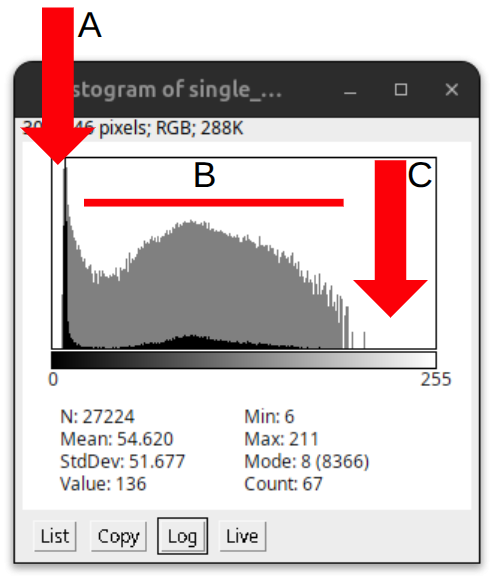
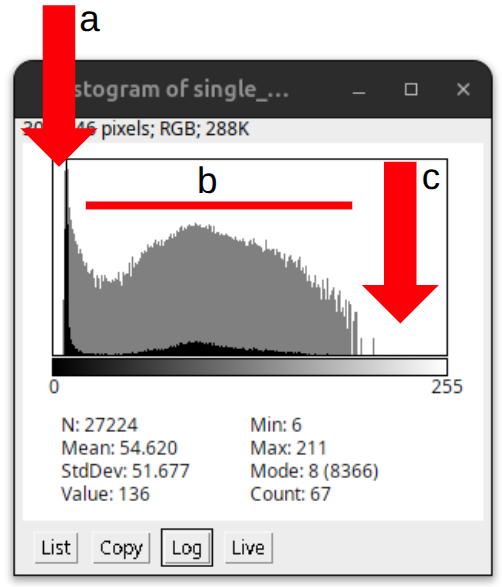
Revised image histogram section

diff --git a/checklists/fiji_course/image_histogram.md b/checklists/fiji_course/image_histogram.md
@@ -46,7 +46,7 @@ Finally, the light intensity that the microscope captures is represented as diff
 :name: sampling
 :width: 100%
 
-Illustration demonstrating digital sampling in space and intensity. (A) Illustration of a real object, e.g., a cell, with a smooth, continuous outline and continuous intensity within. (B) A modern microscope samples this signal (yellow grid lines) and transforms (quantizes) it into a digital representation, thus quantizing the continuous analog information into discrete pixels and gray values. (C) The sampled cell as a digital image; note the clear loss of information due to this digital sampling.
+Illustration demonstrating digital sampling in space and intensity. (a) Illustration of a real object, e.g., a cell, with a smooth, continuous outline and continuous intensity within. (b) A modern microscope samples this signal (yellow grid lines) and transforms (quantizes) it into a digital representation, thus quantizing the continuous analog information into discrete pixels and gray values. (c) The sampled cell as a digital image; note the clear loss of information due to this digital sampling.
 ```
 
 ```{admonition} Think about it
@@ -68,7 +68,7 @@ Why should you care about that? See below how different numbers of gray values i
 :name: bit_depth
 :width: 100%
 
-Visualization of different intensity sampling on a Fiji sample image. (A) Two gray levels are available. (B) Four gray levels. (C) Sixteen gray levels. (D) 256 gray levels.
+Visualization of different intensity sampling on a Fiji sample image. (a) Two gray values are available. (b) Four gray values. (c) Sixteen gray values. (d) 256 gray values.
 ```
 
 ```{admonition} Think about it
@@ -76,11 +76,11 @@ Visualization of different intensity sampling on a Fiji sample image. (A) Two gr
 
 The 1-bit image looks bad, and the face is very hard to recognize. The 2-bit image is better, and the 4-bit image is already quite good, but there are still clear stepping artifacts. The 8-bit image and the gradient below appear continuous.
 
-Would 8-bit therefore be sufficient in terms of gray levels for all applications? Can you think of cases when this would be sufficient, and when it would be a problem?
+Would 8-bit therefore be sufficient in terms of gray values for all applications? Can you think of cases when this would be sufficient, and when it would be a problem?
 
 ```
 
-The conversion of the continuous signal into gray levels via intensity sampling can also be performed incorrectly, or the images can be processed incorrectly afterward, negatively impacting analysis and image visualization. For instance:
+The conversion of the continuous signal into gray values via intensity sampling can also be performed incorrectly, or the images can be processed incorrectly afterward, negatively impacting analysis and image visualization. For instance:
 
 - The image can be oversaturated, clipping high intensities.
 - The offset can be set incorrectly, cutting off minimum intensities.
@@ -95,19 +95,19 @@ We can check these artifacts using the image itself, but often they are not easi
 :name: sampling_errors
 :width: 100%
 
-Images demonstrating different intensity sampling problems. (A) The starting image, an F-actin cytoskeleton stain channel of a cell cluster. (B–E) Different intensity sampling problems introduced into the same image. 
+Images demonstrating different intensity sampling problems. (a) The starting image, an F-actin cytoskeleton stain channel of a cell cluster. (b-e) Different intensity sampling problems introduced into the same image. 
 ```
 
 ```{admonition} Exercise
 :class: tip
-Can you identify the intensity sampling problems in each of B–E? You can find the solution at the end of the tutorial, or work through the exercise yourself using histograms.
+Can you identify the intensity sampling problems in each of b-e? You can find the solution at the end of the tutorial, or work through the exercise yourself using histograms.
 ```
 
-## Image Histogram
+## Creating an Image Histogram
 
 We can use tools such as image histograms to easily spot intensity sampling problems. 
 
-Download the first test image here [a_image.png](./image_histogram_resources/a_image.png) (right-click and select "Save Link As...") .
+Download the first test image here [a_image.png](./image_histogram_resources/a_image.png) (right-click and select "Save Link As...").
 
 Open Fiji.
 
@@ -126,29 +126,31 @@ You can then create the image histogram of this image here:
 
 Analyze > Histogram (Ctrl + H; Mac: ⌘ + H)
 
-The image histogram shows the intensity distributions over all pixels (black plots), with the x-axis plotting the gray values and the y-axis plotting the number of pixels {numref}`histogram_good`. 
-
 ```{figure} ./image_histogram_resources/histogram_good.png
 :alt: In
 :align: center
 :name: histogram_good
 :width: 75%
 
-Image Histogram
+Image Histogram: the number of pixels (y-axis) is plotted over the gray values (x-axis).
 ```
 
-There are two peaks, see {numref}`histogram_annotated`. (A) The first sharp peak has many pixels with low gray values. These values correspond mostly to the background of the image (e.g., dark pixels). (B) The second flatter peak shows pixels with a wide distribution over different larger gray values. These correspond to the signal from the imaged object. (C) Below you will find a calibration bar that shows the minimum and maximum values displayed and their corresponding displayed gray value. 
+The image histogram shows the intensity distributions over all pixels (black plots), with the x-axis plotting the gray values and the y-axis plotting the number of pixels {numref}`histogram_good`. 
 
-Additionally, the histogram window shows basic intensity statistics from this specific image such as the total number of pixels (N), mean (Mean), standard deviation (StdDev), minimum value (Min), and maximum value (Max). For more information, please look into the [ImageJ documentation](https://imagej.net/ij/docs/menus/analyze.html#hist).
 
 ```{figure} ./image_histogram_resources/histogram_annotated.png
 :alt: In
 :align: center
 :name: histogram_annotated
-:width: 50%
+:width: 75%
 
-Information in the histogram
+Information in the histogram: (a) The dark pixels of the background (note the offset). (b) The higher gray values of the signal that are distributed over a larger gray value range. (c) The entire range of gray values currently visualized in the display. Since it is an 8-bit image, the entire bit range of the image is displayed. 
 ```
+
+There are two peaks, see {numref}`histogram_annotated`. (a) The first sharp peak has many pixels with low gray values. These values correspond mostly to the background of the image (e.g., dark pixels). (b) The second flatter peak shows pixels with a wide distribution over different larger gray values. These correspond to the signal from the imaged object. (c) Below you will find a calibration bar that shows the minimum and maximum values displayed and their corresponding displayed gray value. 
+
+Additionally, the histogram window shows basic intensity statistics from this specific image such as the total number of pixels (N), mean (Mean), standard deviation (StdDev), minimum value (Min), and maximum value (Max). For more information, please look into the [ImageJ documentation](https://imagej.net/ij/docs/menus/analyze.html#hist).
+
 
 The second peak is often not easily visible. Thus, we can apply a log scale on the y-axis to better visualize the less abundant gray values. The intensity distribution using the log scale is overlaid as gray plots, see {numref}`histogram_good_log`:
 
@@ -161,11 +163,7 @@ The second peak is often not easily visible. Thus, we can apply a log scale on t
 Histogram with log scale
 ```
 
-Now we would like to understand what constitutes a well-acquired image based on its histogram. In general, good original microscopy images (i.e., unprocessed) preserve both the low and high intensity values and show an unprocessed varying signal. We can see this clearly in {numref}`histogram_demonstrated`:
-
-(A) Low values do not start at 0; there is a clear "offset" present in the image, with low intensity varying around a low gray value.
-(B) The signal is continuous but not smooth; variation is present along the intensity distribution due to variation in the signal and noise.
-(C) The high values end before the highest possible value, rather than reaching it.
+Now we would like to understand what constitutes a well-acquired image based on its histogram. In general, good original microscopy images preserve both the low and high intensity values and show a varying signal. We can see this clearly in {numref}`histogram_demonstrated`:
 
 ```{figure} ./image_histogram_resources/histogram_good_demonstrated.png
 :alt: In
@@ -173,8 +171,12 @@ Now we would like to understand what constitutes a well-acquired image based on 
 :name: histogram_demonstrated
 :width: 50%
 
-Histogram with log scale
+An example showing the hallmarks of a well-acquired image: (a) Offset. (b) Varying signal with more or less continuous signal distribution. (c) The highest signal falls within the upper third of the gray value range but does not reach the maximum value.
 ```
+
+(a) Low values do not start at 0; there is a clear "offset" present in the image, with low intensity varying around a low gray value.
+(b) The signal is continuous but not smooth; variation is present along the intensity distribution due to variation in the signal and noise.
+(c) The high values end before the highest possible value, rather than reaching it.
 
 :::{note}
 
@@ -184,7 +186,7 @@ Variation and noise are often seen as something bad that should be suppressed or
 
 ## Intensity artifacts in Histograms
 
-Since we now understand how a regular histogram should look, we can study different intensity sampling problems. Download the example images (B-E) from the example figure {numref}`sampling_errors` here (right-click and select "Save Link As..."): 
+Since we now understand how a regular histogram should look, we can study different intensity sampling problems. Download the example images (b-e) from the example figure {numref}`sampling_errors` here (right-click and select "Save Link As..."): 
 
 - [b_image.png](./image_histogram_resources/b_image.png) 
 - [c_image.png](./image_histogram_resources/c_image.png)
@@ -194,7 +196,7 @@ Since we now understand how a regular histogram should look, we can study differ
 ```{admonition} Exercise
 :class: tip
 
-Open the images, create a histogram and then compare it to the starting image (A_image.png). Try to identify the differences between the images and the image histograms.
+Open the images, create a histogram and then compare it to the starting image (a_image.png). Try to identify the differences between the images and the image histograms.
 
 Also think how these artifacts impact your visualization and analysis downstream.
 
@@ -277,5 +279,5 @@ Histogram rescaled non-continuous intensity distribution.
 :name: sampling_errors_solution
 :width: 100%
 
-Images demonstrating different intensity sampling errors. (A) The starting image, an F-actin cytoskeleton stain channel of a cell cluster. (B) Low contrast image. (C) Low intensities cut off. (D) Oversaturated image with high intensities clipped. (E) Histogram resampled. 
+Images demonstrating different intensity sampling errors. (a) The starting image, an F-actin cytoskeleton stain channel of a cell cluster. (b) Low contrast image. (c) Low intensities cut off. (d) Oversaturated image with high intensities clipped. (e) Histogram resampled. 
 ```
